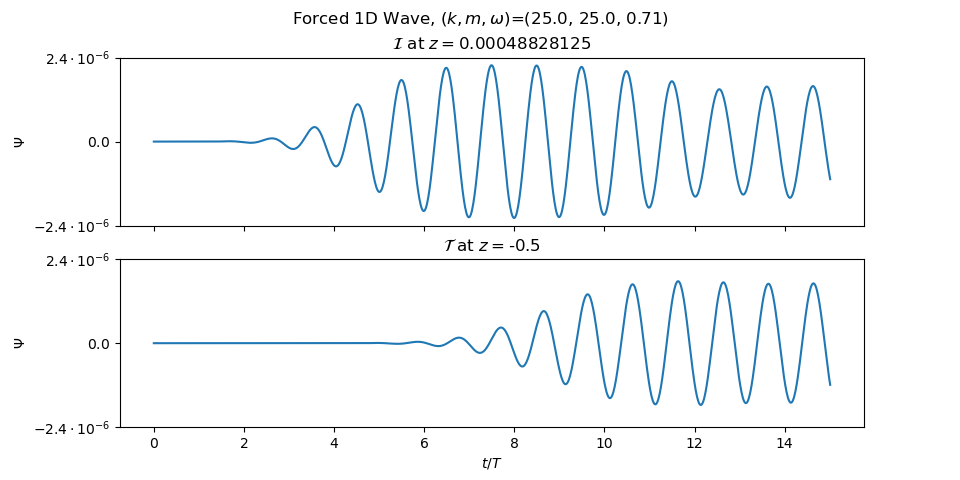
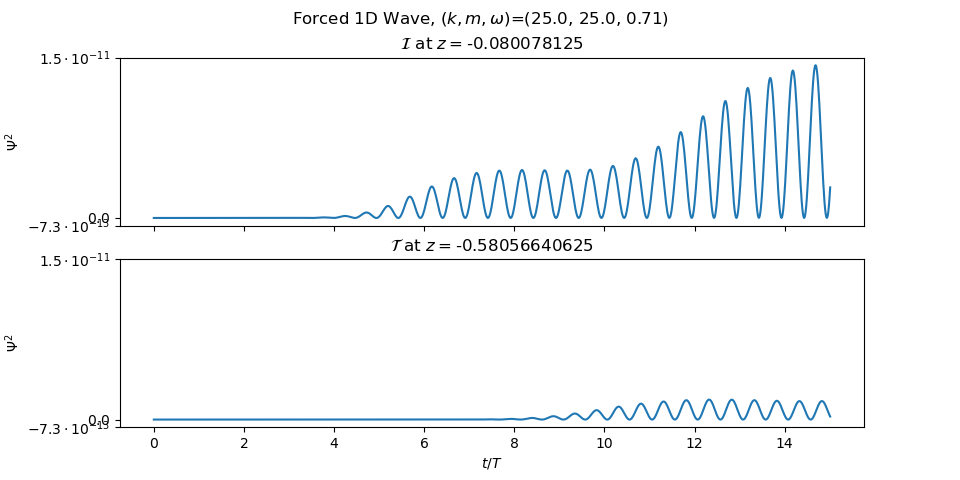
Naive measure of transmission coefficient complete

diff --git a/measure_T_naive.py b/measure_T_naive.py
@@ -50,24 +50,15 @@ T           = sbp.T             # [s]           Wave period
 # Domain parameters
 z0_dis      = sbp.z0_dis        # [m]           The bottom of the displayed domain
 zf_dis      = sbp.zf_dis        # [m]           The top of the displayed z domain
-z_I         = zf_dis            # [m]           Depth at which I' will be measured
-z_T         = (z0_dis-zf_dis)/2 # [m]           Depth at which T' will be measured
+z_I         = zf_dis - (2/m)    # [m]           Depth at which I' will be measured
+z_T = (z0_dis-zf_dis)/2 - (2/m) # [m]           Depth at which T' will be measured
 
 ###############################################################################
 # Get depth and wavenumber axes
 z           = sbp.z
 ks          = sbp.ks
 
-# Save arrays to files
-arrays = {'psi_g_array':[],
-          'psi_c_reals':[],
-          'psi_c_imags':[],
-          't_array':[],
-          'BP_array':[]}
-for arr in arrays:
-    file = open('arrays/'+arr, "rb")
-    arrays[arr] = np.load(file)
-    file.close
+###############################################################################
 
 def take_closest(myList, myNumber, returns='index'):
     """
@@ -95,15 +86,7 @@ def take_closest(myList, myNumber, returns='index'):
         elif returns=='value':
             return before
 
-# print('z_I = ',z_I)
-# z_Ii = take_closest(z, z_I)
-# print('z_Ic = ',z[z_Ii])
-# print('')
-# print('z_T = ',z_T)
-# z_Ti = take_closest(z, z_T)
-# print('z_Tc = ',z[z_Ti])
-
-def plot_I_and_T(z, z_I, z_T, t_array, data_array, k, m, omega, title_str='Forced 1D Wave'):
+def plot_I_and_T(z, i_I, i_T, t_array, data_array, k, m, omega, title_str='Forced 1D Wave'):
     # Set aspect ratio of overall figure
     w, h = mpl.figure.figaspect(0.5)
     # This dictionary makes each subplot have the desired ratios
@@ -112,14 +95,11 @@ def plot_I_and_T(z, z_I, z_T, t_array, data_array, k, m, omega, title_str='Force
                    'width_ratios': [1]}
     # Set ratios by passing dictionary as 'gridspec_kw', and share y axis
     fig, axes = plt.subplots(figsize=(w,h), nrows=2, ncols=1, gridspec_kw=plot_ratios, sharey=True)
-    # Find indices of closest values of z to z_I and z_T
-    i_I = take_closest(z, z_I)
-    i_T = take_closest(z, z_T)
     # plot lines of psi vs. t
     axes[0].plot(t_array, data_array[i_I])
-    hf.format_labels_and_ticks_v(axes[0], r'$\Psi$')
+    hf.format_labels_and_ticks_v(axes[0], r'$\Psi^2$')
     axes[1].plot(t_array, data_array[i_T])
-    hf.format_labels_and_ticks_v(axes[1], r'$\Psi$')
+    hf.format_labels_and_ticks_v(axes[1], r'$\Psi^2$')
     #
     axes[0].set_xticklabels([])
     axes[1].set_xlabel(r'$t/T$')
@@ -129,4 +109,46 @@ def plot_I_and_T(z, z_I, z_T, t_array, data_array, k, m, omega, title_str='Force
     fig.suptitle(r'%s, $(k,m,\omega)$=(%s)' %(title_str, param_formated_str))
     plt.savefig('f_1D_I_and_T.png')
 
-plot_I_and_T(z, z_I, z_T, arrays['t_array']/T, arrays['psi_g_array'], k, m, omega)
+def calc_I_and_T(i_I, i_T, t_array, data_array, t_interval_I, t_interval_T):
+    # This returns the root mean square values of I and T
+    #   I'm using arbitrary time intervals, i.e. t_interval_I=(I_t_i, I_t_f)
+    #
+    # Square of data at the two choosen depths
+    I_slice = np.square(data_array[i_I])
+    T_slice = np.square(data_array[i_T])
+    # Find indicies of choosen time intervals
+    ti_I_i = take_closest(t_array, t_interval_I[0])
+    ti_I_f = take_closest(t_array, t_interval_I[1])
+    ti_T_i = take_closest(t_array, t_interval_T[0])
+    ti_T_f = take_closest(t_array, t_interval_T[1])
+    # Filter to choosen times
+    I_slice = I_slice[ti_I_i:ti_I_f]
+    T_slice = T_slice[ti_T_i:ti_T_f]
+    # Mean and square root
+    I = np.sqrt(np.mean(I_slice))
+    T = np.sqrt(np.mean(T_slice))
+    return I, T
+
+###############################################################################
+# Save arrays to files
+arrays = {'psi_g_array':[],
+          'psi_c_reals':[],
+          'psi_c_imags':[],
+          't_array':[],
+          'BP_array':[]}
+for arr in arrays:
+    file = open('arrays/'+arr, "rb")
+    arrays[arr] = np.load(file)
+    file.close
+
+# Find indices of closest values of z to z_I and z_T
+i_I = take_closest(z, z_I)
+i_T = take_closest(z, z_T)
+
+plot_I_and_T(z, i_I, i_T, arrays['t_array']/T, np.square(arrays['psi_g_array']), k, m, omega)
+
+I, T = calc_I_and_T(i_I, i_T, arrays['t_array']/T, arrays['psi_g_array'], (7.0,10.0), (12.0,15.0))
+
+print("I' = ",I)
+print("T' = ",T)
+print("T'/I' = ",T/I)
